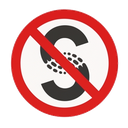
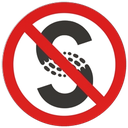
v3.0.2: Nye ikoner og Firefox 140 som minimum

diff --git a/CHANGELOG.md b/CHANGELOG.md
@@ -4,6 +4,13 @@ Alle vesentlige endringer i dette prosjektet dokumenteres her.
 
 Formatet er basert på [Keep a Changelog](https://keepachangelog.com/nb/1.1.0/).
 
+## [3.0.2] - 2026-10-20
+
+### Endret
+- Nye ikoner med gjennomsiktig bakgrunn. Den hvite firkanten rundt ikonet synes ikke lenger i mørke verktøylinjer og i popupen
+- Firefox krever nå versjon 140 eller nyere (`strict_min_version`), som støtter `data_collection_permissions`. Fjerner advarselen fra Mozillas validering
+- Oppdatert banner og butikkbilder
+
 ## [3.0.1] - 2026-10-16
 
 ### Fikset
